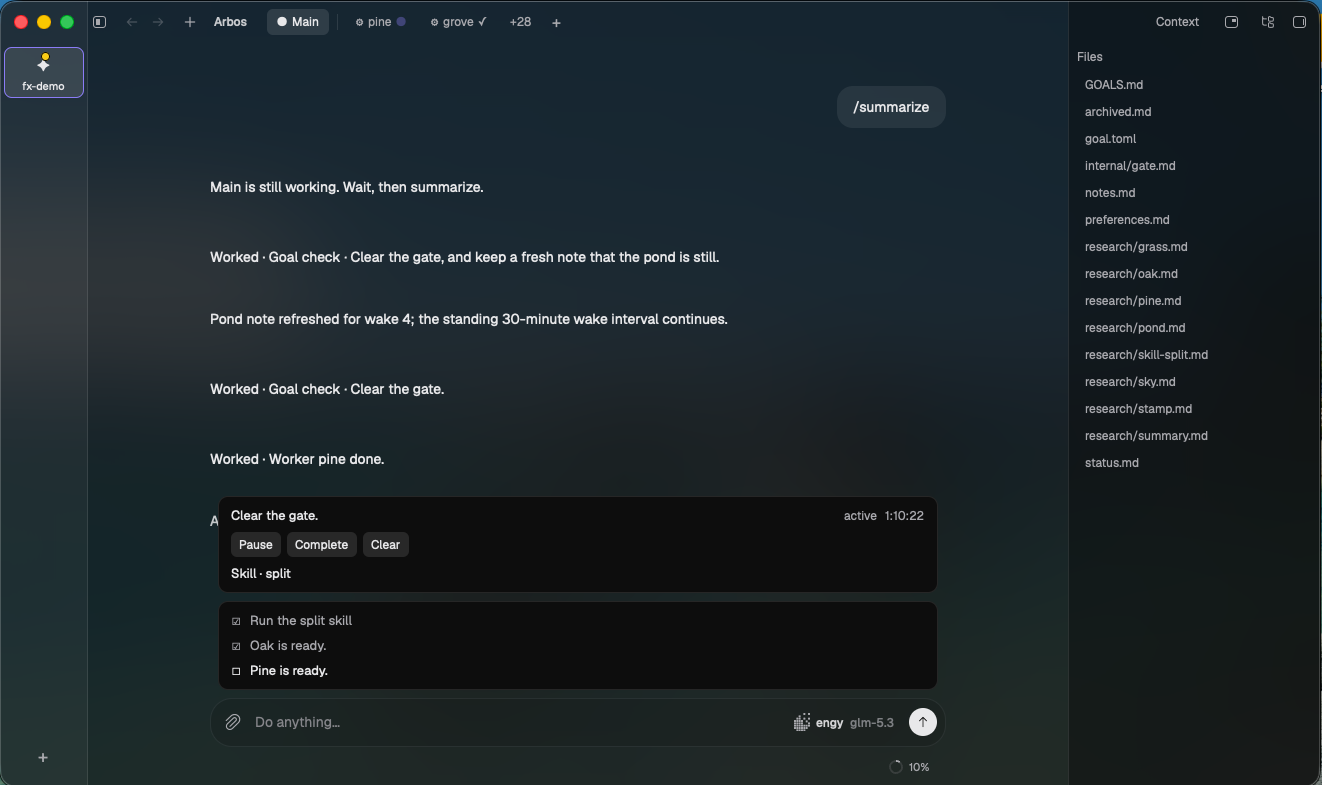
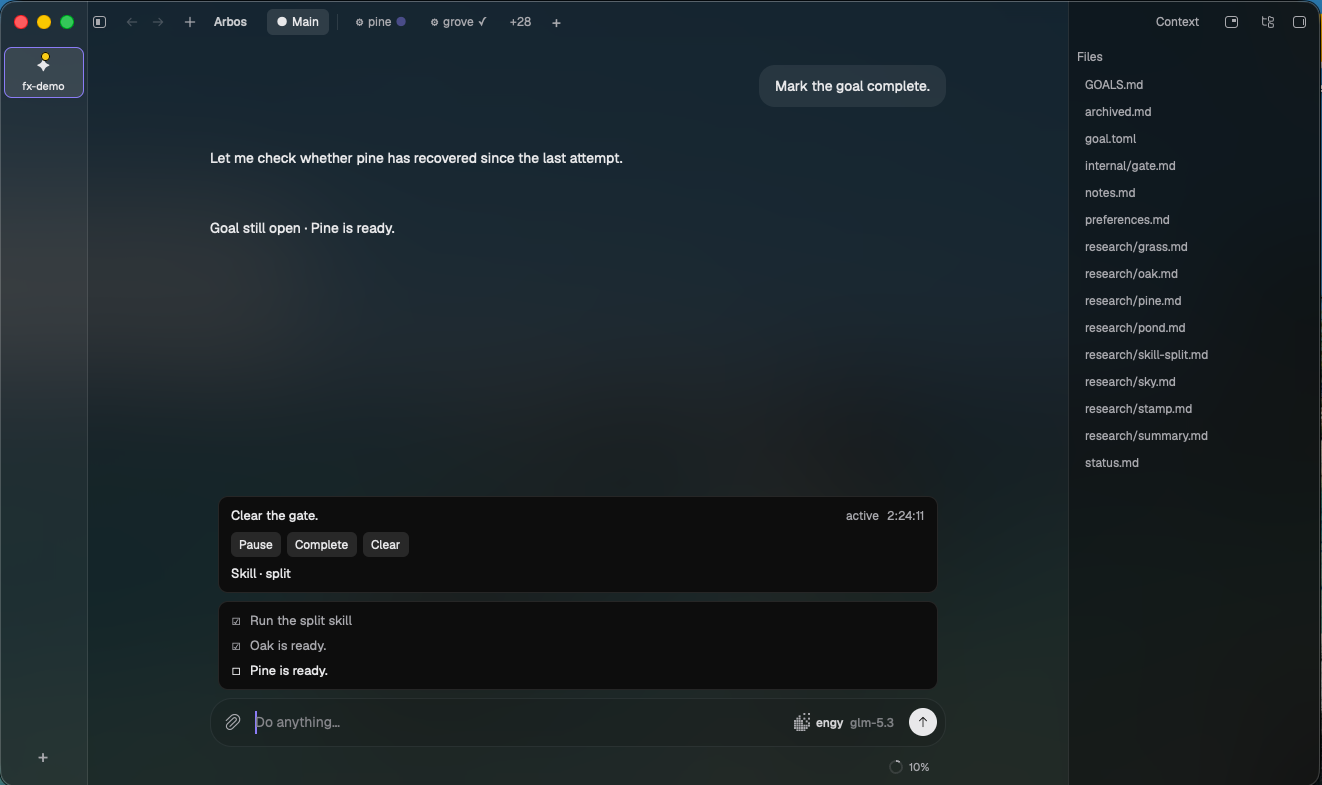
Show the open step beside Complete in the README.
The goal row stays active, with Pine unchecked, when Main is refused.

diff --git a/README.md b/README.md
@@ -4,6 +4,6 @@ Arbos is a coding agent for one project. Talk to Main, watch workers, keep the w
 
 [Download Arbos for Mac](https://github.com/unarbos/arbos/releases/download/v0.2.112/Arbos-0.2.112-macos-arm64.dmg)
 
-![Complete sits beside Pause and Clear while a step is still open.](docs/images/arbos.png)
+![Goal still open · Pine is ready. Complete sits beside Pause and Clear.](docs/images/arbos.png)
 
 The left bar lists your projects. Each project has one Main chat. Main sends work to workers, and those workers report back into that chat. Press Command+ to open another chat in the same project. Those chats are tabs along the top. A checklist sits under Main. Context holds the notes the project shares.
